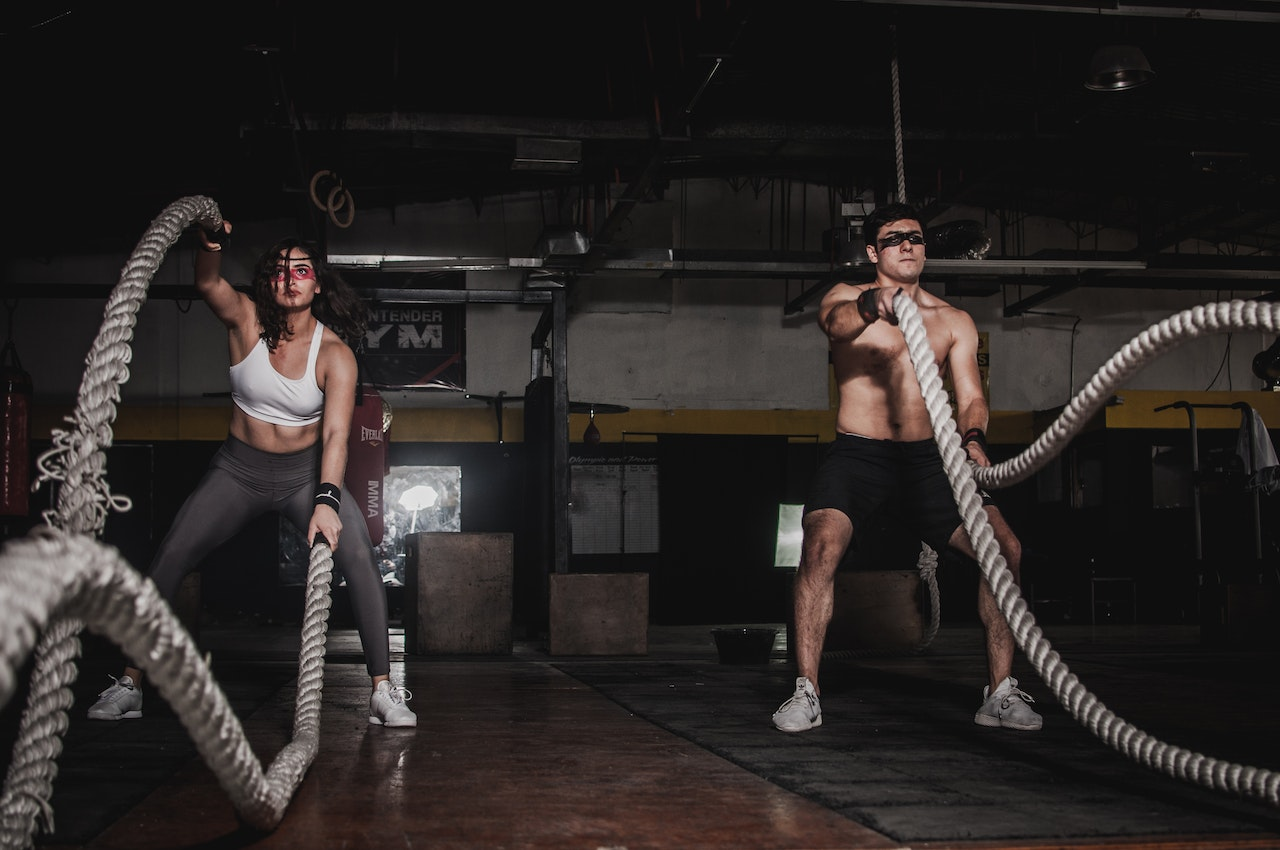
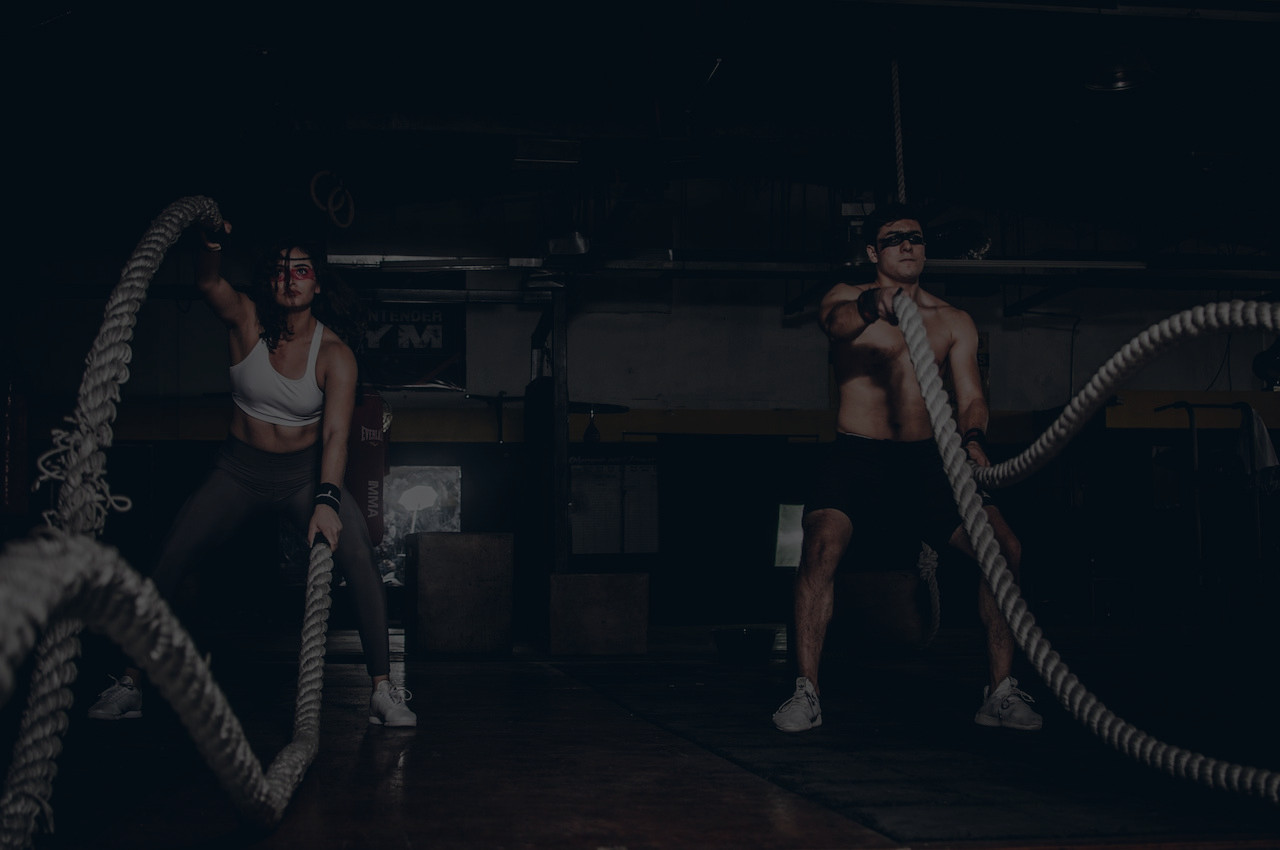
.

diff --git a/index.html b/index.html
@@ -5,31 +5,100 @@
     <meta name="viewport" content="width=device-width, initial-scale=1.0">
     <title>GYM - A melhor para a sua saúde</title>
     <!-- LINKS -->
+    <link href="https://fonts.googleapis.com/icon?family=Material+Icons" rel="stylesheet">
     <link rel="preconnect" href="https://fonts.googleapis.com">
     <link rel="preconnect" href="https://fonts.gstatic.com" crossorigin>
     <link href="https://fonts.googleapis.com/css2?family=Poppins:wght@400;600;800&display=swap" rel="stylesheet">
+    <link rel="stylesheet" href="https://fonts.googleapis.com/css2?family=Material+Symbols+Outlined:opsz,wght,FILL,GRAD@24,400,0,0" />
     <link rel="stylesheet" href="estilos/style.css">
     <link rel="stylesheet" href="estilos/medias.css">
     <link rel="shortcut icon" href="imagens/favicon.ico" type="image/x-icon">
 </head>
-<body>
-    <header>
-        <a href="#"><img src="imagens/logo-gym.png" alt=""></a>
+<body onresize="mudouTamanho()">
+    <header class="main-header" id="inicio">
+        
+        <nav class="nav-main-header">
+            <a href="#"><img src="imagens/logo-gym.png" alt=""></a>
 
-        <nav class="nav-header">
-            <ul>
-                <li>Inicio</li>
-                <li>Quem somos</li>
-                <li>Serviços</li>
-                <li>Contatos</li>
+            <span class="material-icons" id="burguer" onclick="clickMenu()">menu</span>
+
+            <ul id="itens">
+                <li><a href="#inicio">Inicio</a></li>
+                <li><a href="#quem-somos">Quem somos</a></li>
+                <li><a href="#servicos">Serviços</a></li>
+                <li><a href="#contatos">Contatos</a></li>
+            </ul>
+            <ul id="itens2">
+                <li><a href="#inicio">Inicio</a></li>
+                <li><a href="#quem-somos">Quem somos</a></li>
+                <li><a href="#servicos">Serviços</a></li>
+                <li><a href="#contatos">Contatos</a></li>
             </ul>
         </nav>
-    </header>
-    <main>
 
+        <div class="div-main-header">
+            <p class="p-main-header">BEM-VINDOS À ACADEMIA CIA DO CORPO</p>
+            <h1 class="title-main-header">A sua melhor opção para uma vida <span class="span-title-main-header">MAIS</span> saudável!</h1>
+            <div class="div-linha"></div>
+            <h2 class="h2-main-header">Musculação, Muay Thai, Ginástica (Ritmos, Jump, Step, Hiit, Pilates e muito mais.)</h2>
+            <button class="btn-main-header">MARQUE JÁ SEU TREINO EXPERIMENTAL NA UNIDADE MAIS PRÓXIMA DE VOCÊ</button>
+        </div>
+    </header>
+    <main class="main-content">
+        <section id="quem-somos">
+            <div class="main-content-section1">
+                <h1 class="title-main-content-section1">Quem Somos</h1>
+                <h2 class="h2-main-content-section1">Faça parte da comunidade de alunos que transformam suas vidas na academia.</h2>
+            </div>
+            <div class="main-content-section2">
+                <p class="p-main-content-section2"><span class="span-main-section2">A</span> academia GYM é uma academia completa que oferece musculação, ginástica e artes marciais. Com um compromisso firme com a saúde de seus alunos, a academia busca oferecer um ambiente seguro e de qualidade para a prática de exercício físico.</p>
+                <p class="p-main-content-section2">O objetivo principal é cuidar das pessoas, buscando sempre o seu bem-estar físico e mental. Com equipamentos modernos e uma infraestrutura de alta qualidade, a academia oferece uma experiência única para quem busca cuidar do corpo e da mente.</p>
+                <div class="div-div-main-content-section2">
+                    <p class="div-p-main-content-section2"><span class="material-symbols-outlined check">task_alt</span>equipamentos modernos</p>
+                    <p class="div-p-main-content-section2"><span class="material-symbols-outlined check">task_alt</span>instrutores capacitados e experientes</p>
+                    <p class="div-p-main-content-section2"><span class="material-symbols-outlined check">task_alt</span>aulas variadas de ginástica</p>
+                    <p class="div-p-main-content-section2"><span class="material-symbols-outlined check">task_alt</span>treinos personalizados</p>
+                </div>
+            </div>
+        </section>
+        <section id="servicos">
+
+            <div class="div-main-content-section-servicos">
+                <h1 class="title-main-content-section2">Nossos serviços</h1>
+                <h2 class="h2-main-content-section2">Conheça os nossos serviços</h2>
+                <div class="div-linha"></div>
+            </div>
+
+            <article class="card-main-section-servicos">
+                <div class="img-musculacao"></div>
+                <div class="check-circle"><span class="material-symbols-outlined check">task_alt</span></div>
+                <h3>Musculação</h3>
+                <div class="div-linha"></div>
+                <p>É a modalidade mais versátil, que possibilita trabalhar diversos grupos musculares em um único treino, com exercícios que podem ser facilmente adaptados de acordo com as limitações de cada aluno.</p>
+            </article>
+
+            <article class="card-main-section-servicos">
+                <div class="img-musculacao"></div>
+                <div class="check-circle"><span class="material-symbols-outlined check">task_alt</span></div>
+                <h3>Ginástica</h3>
+                <div class="div-linha"></div>
+                <p>Temos aulas de Zumba, Dança, Jump, Pump, Local, Step, Cross Training, Ritbox, Functional, Hiit, Pilates e Alongamento. Todas as aulas possuem horários específicos durante a semana.</p>
+            </article>
+
+            <article class="card-main-section-servicos">
+                <div class="img-musculacao"></div>
+                <div class="check-circle"><span class="material-symbols-outlined check">task_alt</span></div>
+                <h3>Artes Marciais</h3>
+                <div class="div-linha"></div>
+                <p>Com aulas de Muay Thai, uma das artes marciais mais completas, os alunos aprendem técnicas de defesa pessoal e fortalecem o corpo e a mente.</p>
+            </article>
+
+        </section>
     </main>
     <footer>
 
     </footer>
+
+    <script src="scripts.js"></script>
 </body>
 </html>

diff --git a/estilos/style.css b/estilos/style.css
@@ -3,10 +3,11 @@
 :root {
     --font-padrao: 'Poppins', sans-serif;
 
-    --cor-1: #F2BF5E;
+    --cor-1: #F2C75C;
     --cor-2: #F2CC85;
     --cor-3: #F2DAAC;
     --cor-4: #F2E6D0;
+    --cinza: rgb(102, 102, 102);
 }
 
 * {
@@ -17,4 +18,237 @@
 
 body, html {
     font-family: var(--font-padrao);
+    background-color: rgb(0, 0, 0);
+    color: white;
+}
+
+.div-linha {
+    height: 1px;
+    width: 50px;
+    border-radius: 1000px;
+    background-color: var(--cinza);
+    padding-top: 3px;
+}
+
+/* HEADER */
+
+.main-header {
+    background: url(../imagens/imagem-fundo.jpg)  right bottom no-repeat fixed;
+    background-size: cover;
+    height: 100vh;
+    position: relative;
+}
+
+.nav-main-header {
+    z-index: 1;
+    width: 100vw;
+    display: flex;
+    align-items: center;
+    justify-content: space-around;
+    border-bottom: 1px solid rgba(255, 255, 255, 0.048);
+    padding: 20px 0px;
+    position: fixed;
+    top: 0;
+    left: 0;
+    transition: .5s;
+}
+
+.nav-main-header img {
+    width: 80px;
+}
+
+#itens {
+    list-style: none;
+    position: absolute;
+    top: 55px;
+    right: 0;
+    padding: 50px;
+    padding-top: 20px;
+    border-radius: 0px 0px 0px 10px;
+    height: 300px;
+    text-align: center;
+    background: rgba(0, 0, 0, 0.555);
+}
+
+#itens li, #itens2 li {
+    margin-top: 50px;
+}
+
+#itens li:nth-child(1), #itens2 li:nth-child(1) {
+    margin-top: 0px;
+}
+
+#itens li a, #itens2 li a{
+    font-size: 20px;
+    font-weight: 400;
+    transition: .4s;
+    color: white;
+    border-bottom: 1px solid white;
+    text-decoration: none;
+}
+
+#itens li a:hover, #itens2 li a:hover{
+    color: var(--cor-1);
+    border-bottom: 1px solid var(--cor-1);
+    text-shadow: 0px 0px 10px rgba(255, 255, 255, 0.986);
+}
+
+#itens2 {
+    display: none;
+}
+
+#burguer {
+    cursor: pointer;
+    color: white;
+    transition: .4s;
+}
+
+#burguer:hover {
+    transform: scale(1.2);
+    color: var(--cor-1);
+    text-shadow: 0px 0px 10px rgba(255, 255, 255, 0.986);
+}
+
+.rolagem {
+    background-color: rgba(0, 0, 0, 0.555);
+    padding: 10px;
+    border: 0px;
+}
+
+.div-main-header {
+    display: flex;
+    flex-direction: column;
+    align-items: center;
+    width: 90vw;
+    position: absolute;
+    top: 50%;
+    left: 50%;
+    transform: translate(-50%, -50%);
+    text-align: center;
+    padding: 10px;
+}
+
+.p-main-header {
+    color: rgb(102, 102, 102);
+}
+
+.title-main-header {
+    padding: 30px 0px;
+}
+
+.span-title-main-header {
+    color: var(--cor-1);
+}
+
+.h2-main-header {
+    font-size: 20px;
+    font-weight: 400;
+    padding: 30px 0px;
+}
+
+.btn-main-header {
+    cursor: pointer;
+    padding: 10px;
+    border: none;
+    border-radius: 20px;
+    background-color: var(--cor-1);
+    color: rgba(0, 0, 0, 0.815);
+    font-weight: 600;
+    font-size: 10px;
+    box-shadow: 0px 0px 10px rgba(0, 0, 0, 0.521);
+    transition: .5s;
+}
+
+.btn-main-header:hover {
+    transform: scale(1.05);
+    box-shadow: 0px 0px 10px rgba(255, 255, 255, 0.418);
+}
+
+/* MAIN */
+
+/* SEC 1*/
+.main-content {
+    background-color: white;
+    color: black;
+}
+
+#quem-somos {
+    padding: 30px;
+}
+
+.title-main-content-section1 {
+    padding-top: 25px;
+    font-size: 15px;
+    color: var(--cinza);
+}
+
+.h2-main-content-section1 {
+    padding-top: 20px;
+    font-size: 25px;
+    font-weight: 600;
+    text-align: start;
+}
+
+.main-content-section2 {
+    margin-top: 50px;
+}
+
+.span-main-section2 {
+    float: left;
+    padding-right: 10px;
+    color: var(--cor-1);
+    font-size: 52px;
+    font-weight: 600;
+    line-height: 40px;
+    text-shadow: -4px 3px 4px rgba(0, 0, 0, 0.322);
+}
+
+.p-main-content-section2 {
+    font-weight: 400;
+    line-height: 24px;
+    color: rgba(0, 0, 0, 0.637);
+    text-align: justify;
+    margin-bottom: 30px;
+}
+
+.div-div-main-content-section2 {
+    display: flex;
+    flex-direction: column;
+}
+
+.div-p-main-content-section2 {
+    padding-bottom: 30px;
+    font-size: 20px;
+    font-weight: 600;
+    color: rgba(0, 0, 0, 0.774);
+}
+
+.check {
+    padding-right: 10px;
+}
+
+/* SEC 2 */
+
+#servicos {
+    padding: 30px;
+}
+
+.div-main-content-section-servicos {
+    margin: 0 auto;
+    display: flex;
+    flex-direction: column;
+    align-items: center;
+}
+
+.title-main-content-section2 {
+    padding-top: 50px;
+    font-size: 15px;
+    color: var(--cinza);
+    padding-bottom: 20px;
+}
+
+.h2-main-content-section2 {
+    font-size: 25px;
+    font-weight: 600;
+    padding-bottom: 20px;
 }

diff --git a/scripts.js b/scripts.js
@@ -1,0 +1,22 @@
+function mudouTamanho() {
+    if (window.innerWidth >= 992) {
+        itens.style.display = 'block'
+    } else {
+        itens.style.display = 'none'
+    }
+}
+
+function clickMenu() {
+    if (itens.style.display == 'block') {
+        itens.style.display = 'none'
+    } else {
+        itens.style.display = 'block'
+    }
+}
+
+/* HEADER FIXED */ 
+
+window.addEventListener('scroll', function(){
+    let header = document.querySelector('.nav-main-header')
+    header.classList.toggle('rolagem',window.scrollY > 500)
+})
